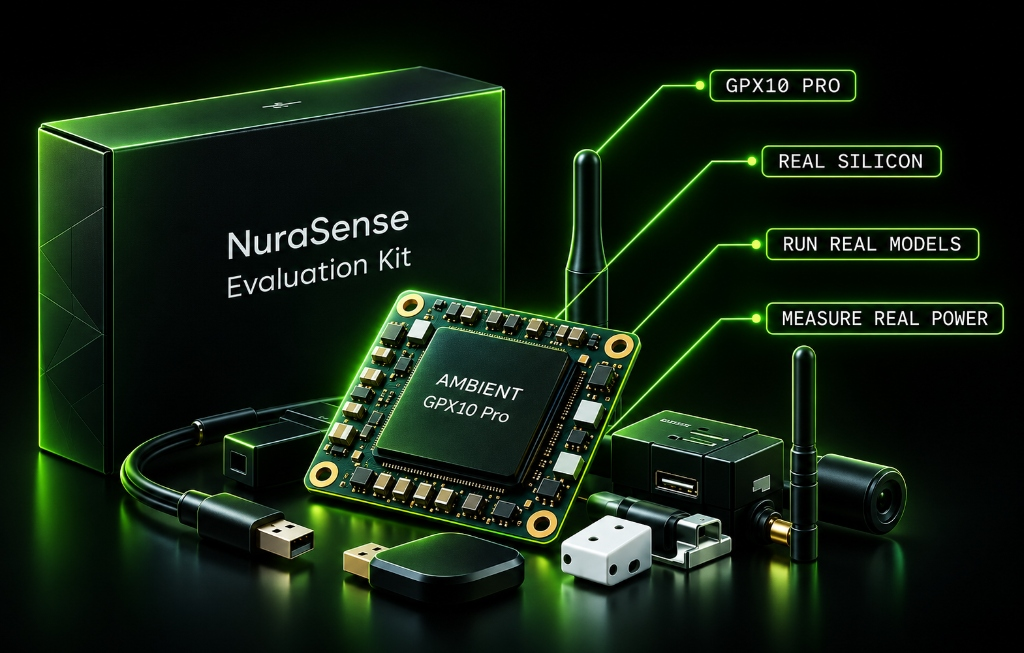
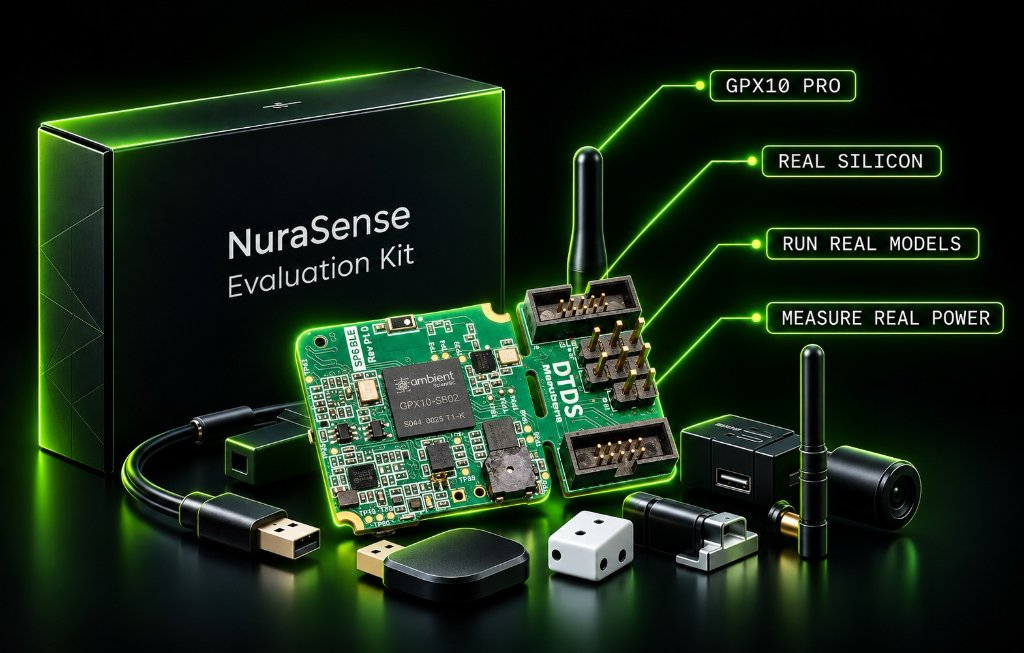
pointers done

diff --git a/src/components/electronica-munich-2026/ElectronicaHero.tsx b/src/components/electronica-munich-2026/ElectronicaHero.tsx
@@ -81,10 +81,10 @@ export function ElectronicaHero() {
               className={`${interRegular.className} max-w-[520px] text-[16px] font-normal leading-[25px] text-[#f0f0f0] opacity-85 [word-break:break-word]`}
             >
               Ambient Scientific makes fully programmable AI processors that run
-              real AI on-device, at microwatt power. Now Grinn and Celus are
-              building a whole ecosystem around GPX10 Pro, making it radically
-              easier to put that AI into your product. See it running at
-              Electronica.
+              real AI on-device, at microwatt power. Now Celus and ecosystem
+              partners are building a whole ecosystem around GPX10 Pro, making
+              it radically easier to put that AI into your product. See it
+              running at Electronica.
             </p>
           </div>
 
@@ -98,7 +98,7 @@ export function ElectronicaHero() {
             <span
               className={`${interRegular.className} text-[13px] font-normal text-white/80`}
             >
-              Grinn · Celus
+              Celus · Ecosystem Partners
             </span>
           </div>
 
@@ -212,10 +212,10 @@ export function ElectronicaHero() {
             className={`${interRegular.className} max-w-[340px] text-center text-[14px] font-normal leading-[22px] text-[#f0f0f0] opacity-85`}
           >
             Ambient Scientific makes fully programmable AI processors that run
-            real AI on-device, at microwatt power. Now Grinn and Celus are
-            building a whole ecosystem around GPX10 Pro, making it radically
-            easier to put that AI into your product. See it running at
-            Electronica.
+            real AI on-device, at microwatt power. Now Celus and ecosystem
+            partners are building a whole ecosystem around GPX10 Pro, making
+            it radically easier to put that AI into your product. See it
+            running at Electronica.
           </p>
 
           {/* Credibility Line Mobile */}
@@ -228,7 +228,7 @@ export function ElectronicaHero() {
             <span
               className={`${interRegular.className} text-[12px] font-normal text-white/80`}
             >
-              Grinn · Celus
+              Celus · Ecosystem Partners
             </span>
           </div>
 

diff --git a/src/components/electronica-munich-2026/ElectronicaSeeItRun.tsx b/src/components/electronica-munich-2026/ElectronicaSeeItRun.tsx
@@ -143,9 +143,9 @@ export function ElectronicaSeeItRun() {
             <p
               className={`${interRegular.className} max-w-[480px] text-right text-[16px] font-normal leading-[25px] text-[#f0f0f0] opacity-85`}
             >
-              Watch GPX10 Pro run across Grinn, Celus, and Embedder designs with
-              real AI at microwatt power, on real silicon, from drop-in modules
-              to custom boards.
+              Watch GPX10 Pro run across partner designs with real AI at
+              microwatt power, on real silicon, from drop-in modules to custom
+              boards.
             </p>
           </div>
 
@@ -205,9 +205,8 @@ export function ElectronicaSeeItRun() {
         <p
           className={`${interRegular.className} mb-[24px] max-w-[340px] text-center text-[14px] font-normal leading-[22px] text-[#f0f0f0] opacity-85`}
         >
-          Watch GPX10 Pro run across Grinn, Celus, and Embedder designs with
-          real AI at microwatt power, on real silicon, from drop-in modules to
-          custom boards.
+          Watch GPX10 Pro run across partner designs with real AI at microwatt
+          power, on real silicon, from drop-in modules to custom boards.
         </p>
 
         {/* Video Preview Card Mobile */}

diff --git a/src/components/electronica-munich-2026/ElectronicaWaysToBuild.tsx b/src/components/electronica-munich-2026/ElectronicaWaysToBuild.tsx
@@ -187,7 +187,7 @@ export function ElectronicaWaysToBuild() {
                 {/* Right Hardware Visual (Much Bigger, Transparent, Well-Established) */}
                 <div className="relative flex h-[255px] w-[285px] shrink-0 items-center justify-center">
                   <img
-                    src="/electronica/grinn-som-board-transparent.png"
+                    src="/electronica/som-board-transparent.png"
                     alt="GPX10 Pro System-on-Module"
                     className="size-full object-contain scale-[1.12] drop-shadow-[0_16px_32px_rgba(0,0,0,0.7)]"
                   />
@@ -480,7 +480,7 @@ export function ElectronicaWaysToBuild() {
             {/* Hardware Visual (Much Bigger, Transparent, Well-Established) */}
             <div className="relative my-[12px] flex h-[220px] w-full items-center justify-center">
               <img
-                src="/electronica/grinn-som-board-transparent.png"
+                src="/electronica/som-board-transparent.png"
                 alt="GPX10 Pro System-on-Module"
                 className="h-full object-contain scale-[1.08] drop-shadow-[0_12px_24px_rgba(0,0,0,0.7)]"
               />

diff --git a/src/components/electronica-munich-2026/ElectronicaMeetInPerson.tsx b/src/components/electronica-munich-2026/ElectronicaMeetInPerson.tsx
@@ -139,7 +139,7 @@ export function ElectronicaMeetInPerson() {
         <div className="pointer-events-none absolute right-[80px] top-[40px] z-20 flex h-[460px] w-[670px] select-none items-center justify-center">
           <img
             src="/electronica/booth-map-3d.jpg"
-            alt="Messe München Exhibition Floor Plan with Grinn, Celus, and Embedder Booths"
+            alt="Messe München Exhibition Floor Plan with Partner Booths"
             className="size-full object-contain"
           />
         </div>
@@ -190,7 +190,7 @@ export function ElectronicaMeetInPerson() {
           <Corners leftSrc={CORNER_LEFT} rightSrc={CORNER_RIGHT} />
           <img
             src="/electronica/booth-map-3d.jpg"
-            alt="Messe München Exhibition Floor Plan with Grinn, Celus, and Embedder Booths"
+            alt="Messe München Exhibition Floor Plan with Partner Booths"
             className="w-full object-contain"
           />
         </div>
